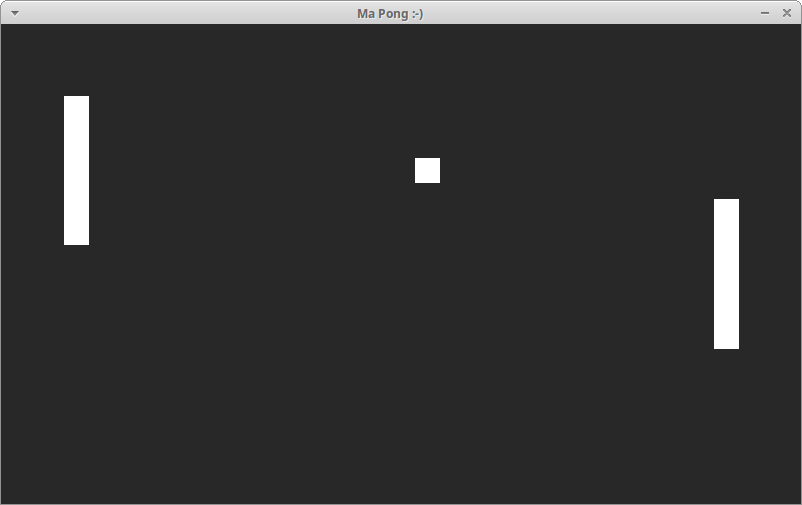
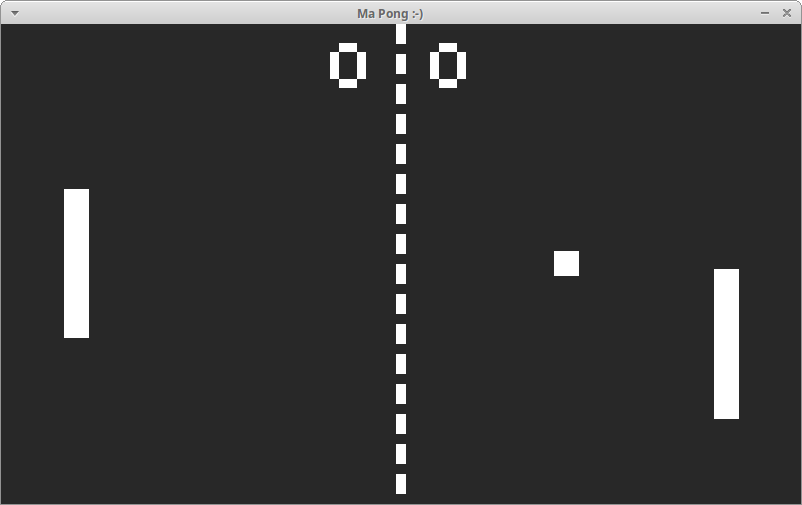
Добавил счёт игроков

diff --git a/maPong.cpp b/maPong.cpp
@@ -1,5 +1,6 @@
 
 #include <iostream>
+#include <string>
 #include <allegro5/allegro.h>
 
 // #include <allegro5/allegro_font.h>
@@ -16,18 +17,41 @@ const int SCREEN_W = 640*1.25;
 const int SCREEN_H = 480;
 // const int BOUNCER_SIZE = 32;
 
+ALLEGRO_FONT *font;
+
+int yourScore = 0;
+int evilScore = 0;
+
 void drawBackground(){
 
-	ALLEGRO_COLOR color = al_map_rgb(255, 255, 255);
+	ALLEGRO_COLOR color_line = al_map_rgb(255, 255, 255);
 	ALLEGRO_COLOR color_score = al_map_rgb(255, 255, 255);
 
-	//draw score
-	/*al_draw_text(const ALLEGRO_FONT *font,
+
+
+	int interval = 50;
+	int indentation = 10;
+
+	al_draw_text(
+		font,
 		color_score,
-		0,
-		0,
-		 int flags,
-		"char const *text");*/
+		SCREEN_W/2 + interval,
+		0+indentation,
+		ALLEGRO_ALIGN_CENTRE,
+		to_string(yourScore).c_str()
+	);
+
+	al_draw_text(
+		font,
+		color_score,
+		SCREEN_W/2 - interval,
+		0+indentation,
+		ALLEGRO_ALIGN_CENTRE,
+		to_string(evilScore).c_str()
+	);
+
+	// al_draw_text(font, al_map_rgb(255,255,255), 640/2, (480/4),
+				// ALLEGRO_ALIGN_CENTRE, score.c_str());
 
 
 	//draw outline
@@ -36,11 +60,11 @@ void drawBackground(){
 	int gap = 10;
 	for ( int hi = 0; hi < SCREEN_H ; hi+=gap+hi_line){
 		al_draw_filled_rectangle(
-				SCREEN_W/2, 
+				SCREEN_W/2 - wi_line/2, 
 				0+hi, 
-				SCREEN_W/2 + wi_line, 
+				SCREEN_W/2 + wi_line/2, 
 				hi_line+hi, 
-				color );
+				color_line );
 	}
 }
 
@@ -138,15 +162,29 @@ public:
 
 
 	void fly() {
+	/*
+	Проверка на столкновение с краями идеёт после прибавления к координатам скорости.
+	Это может вызвать глюк, когда отталкивание
+	совершаеться за стенами, при большом velocity.
+	*/
 
 		// setRandomColor();
 
 		//проверка на столкновение с краями
-		if (position.getX() >= SCREEN_W-width/2 or position.getX() <= 0+width/2)
-			velocity.setX( -velocity.getX() );
 
-		if (position.getY() >= SCREEN_H-hight/2 or position.getY() <= 0+hight/2)
+		if (position.getY() <= 0+hight/2 or position.getY() >= SCREEN_H-hight/2)
 			velocity.setY( -velocity.getY() );
+
+		if (position.getX() >= SCREEN_W-width/2){
+			position = makePoint(SCREEN_W/2, SCREEN_H/2);
+			evilScore++;
+		}
+
+		if (position.getX() <= 0+width/2){
+			position = makePoint(SCREEN_W/2, SCREEN_H/2);
+			yourScore++;
+		}
+
 
 		position += velocity;
 	}
@@ -159,7 +197,7 @@ public:
 		if( abs(position.getX()-obj.position.getX()) == width/2+obj.width/2 and
 			(abs(position.getY()-obj.position.getY()) < hight/2+obj.hight/2 ) )
 		{
-			setRandomColor();
+			// setRandomColor();
 			//Баги, баги, эти баги ВЕЗДЕ!
 			// velocity.setX( -abs(velocity.getX()+1.5) ); 
 			velocity.setX( -velocity.getX() ); 
@@ -242,8 +280,8 @@ int main(int argc, char **argv){
 	al_init();
 	al_install_keyboard();
 	
-	// al_init_font_addon(); // initialize the font addon
-   // al_init_ttf_addon();// initialize the ttf (True Type Font) addon
+	al_init_font_addon(); // initialize the font addon
+	al_init_ttf_addon();// initialize the ttf (True Type Font) addon
 
 
 	Display display(SCREEN_W, SCREEN_H);
@@ -316,12 +354,13 @@ int main(int argc, char **argv){
 
 
 
-	/*ALLEGRO_FONT *font = al_load_ttf_font("DejaVuSans.ttf",10,0 );
+	// font = al_load_ttf_font("Smirnof.ttf",72,0 );
+	font = al_load_ttf_font("04B_03__.TTF",72,0 );
 	// ALLEGRO_FONT *font = al_load_bitmap_font("a4_font.tga");
 	if (!font){
       fprintf(stderr, "Could not load 'pirulen.ttf'.\n");
       return -1;
-   }*/
+   }
 
 	ALLEGRO_EVENT_QUEUE *event_queue = NULL;
 	event_queue = al_create_event_queue();
@@ -345,8 +384,8 @@ int main(int argc, char **argv){
 				
 			al_clear_to_color( clr1 );
 			drawBackground();
-			// al_draw_text(font, al_map_rgb(255,255,255), 640/2, (480/4),
-				//ALLEGRO_ALIGN_CENTRE, "Your Text Here!");
+
+
 
 			ball.draw();
 

diff --git a/README.md b/README.md
@@ -40,6 +40,10 @@ make install
 npm test
 ``` -->
 
+## Дополнительные материалы
+
+Шрифт ``04B_03__.TTF`` был скачан [отсюда](http://dsg4.com/04/extra/bitmap/)
+
 ## Release History
 
 <!-- * 0.2.1
@@ -48,12 +52,12 @@ npm test
     * CHANGE: Remove `setDefaultXYZ()`
     * ADD: Add `init()`
 * 0.1.1
-    * FIX: Crash when calling `baz()` (Thanks @GenerousContributorName!)
+    * FIX: Crash when calling `baz()` (Thanks @GenerousContributorName!) -->
 * 0.1.0
-    * The first proper release
-    * CHANGE: Rename `foo()` to `bar()` -->
+    * Первый годный релиз
+    * Реализован основной функционал игры
 * 0.0.1
-    * Work in progress
+    * Сырой прототип
 
 ## Meta
 
